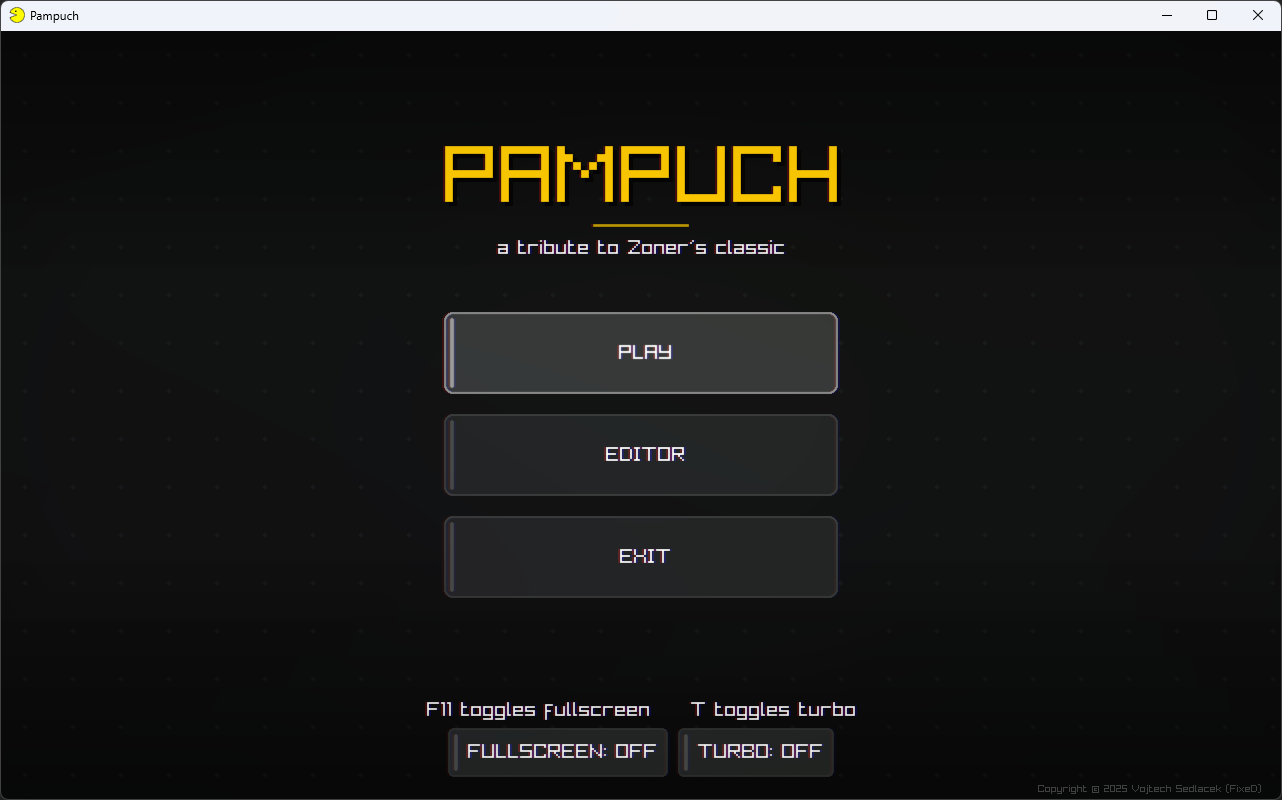
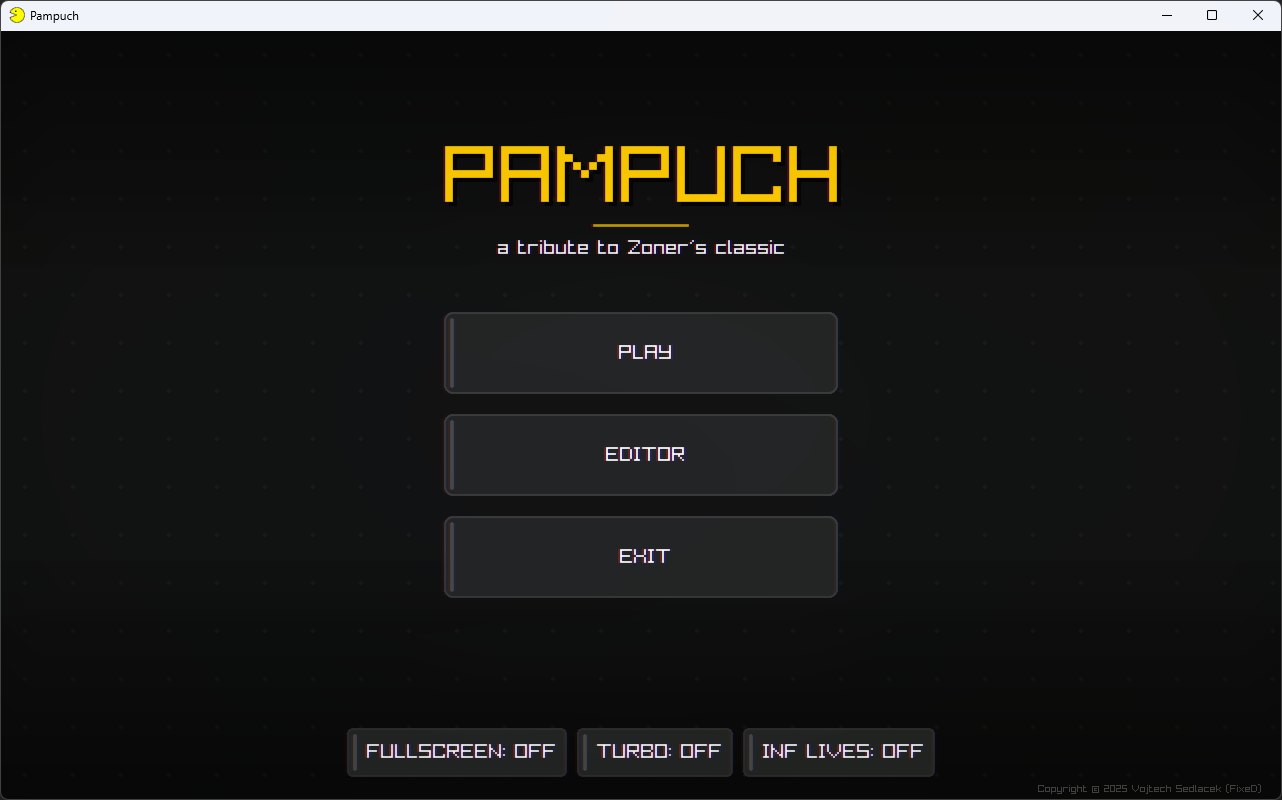
feat(gameplay): add infinite lives toggle to main menu

Changed region(s): [[0.2496, 0.875, 0.7488, 0.9688], [0.3432, 0.375, 0.6552, 0.5]]

diff --git a/src/game/states/PlayScreen.cpp b/src/game/states/PlayScreen.cpp
@@ -24,9 +24,11 @@ void Update(Game& game, float dt) {
             const float dy = ghost.pixelPos.y - game.player.pixelPos.y;
 
             if ((dx * dx + dy * dy) < colRad * colRad) {
-                --game.player.lives;
+                if (!game.infiniteLives) {
+                    --game.player.lives;
+                }
 
-                if (game.player.lives > 0) {
+                if (game.infiniteLives || game.player.lives > 0) {
                     game.ResetLevelState();
                 } else {
                     game.currentState = GameState::GameOver;
@@ -140,12 +142,25 @@ void Draw(Game& game) {
         game.currentState = GameState::MenuMain;
     }
 
-    // TURBO badge (right-aligned, left of quit)
+    // Status badges (right-aligned, left of quit). Read-only — toggled from main menu.
+    const float pillH = barH * 0.42f;
+    float badgeRightX = quitR.x;
+    if (game.infiniteLives) {
+        const float pillTextW = static_cast<float>(MeasureText("INF LIVES", fontSize));
+        const float pillW = pillTextW + pad;
+        const Rectangle pill = { badgeRightX - pad - pillW, (barH - pillH) / 2.0f, pillW, pillH };
+        DrawRectangleRounded(pill, 1.0f, 8, Fade(GREEN, 0.75f));
+        DrawRectangleRoundedLinesEx(pill, 1.0f, 8, 1.5f, Fade(WHITE, 0.55f));
+        DrawText("INF LIVES",
+            static_cast<int>(pill.x + (pill.width - pillTextW) / 2.0f),
+            static_cast<int>(pill.y + (pill.height - fontSize) / 2.0f),
+            fontSize, WHITE);
+        badgeRightX = pill.x;
+    }
     if (game.turboMode) {
-        const float pillH = barH * 0.42f;
         const float pillTextW = static_cast<float>(MeasureText("TURBO", fontSize));
         const float pillW = pillTextW + pad;
-        const Rectangle pill = { quitR.x - pad - pillW, (barH - pillH) / 2.0f, pillW, pillH };
+        const Rectangle pill = { badgeRightX - pad - pillW, (barH - pillH) / 2.0f, pillW, pillH };
         DrawRectangleRounded(pill, 1.0f, 8, Fade(RED, 0.75f));
         DrawRectangleRoundedLinesEx(pill, 1.0f, 8, 1.5f, Fade(WHITE, 0.55f));
         DrawText("TURBO",

diff --git a/src/game/states/MenuScreens.cpp b/src/game/states/MenuScreens.cpp
@@ -85,13 +85,15 @@ void DrawMenuMain(Game& game) {
     const bool isFullscreen = IsWindowFullscreen();
     std::string fullscreenText = isFullscreen ? "FULLSCREEN: ON" : "FULLSCREEN: OFF";
     std::string turboText = game.turboMode ? "TURBO: ON" : "TURBO: OFF";
+    std::string infText = game.infiniteLives ? "INF LIVES: ON" : "INF LIVES: OFF";
 
     const float paddingX = 14.0f * game.layout.Scale();
     const float toggleBtnH = Config::UI::BUTTON_HEIGHT * game.layout.Scale();
     const float fullscreenBtnW = static_cast<float>(MeasureText(fullscreenText.c_str(), fontSize)) + paddingX * 2.0f;
     const float turboBtnW = static_cast<float>(MeasureText(turboText.c_str(), fontSize)) + paddingX * 2.0f;
+    const float infBtnW = static_cast<float>(MeasureText(infText.c_str(), fontSize)) + paddingX * 2.0f;
     const float toggleGap = 14.0f;
-    const float totalToggleW = fullscreenBtnW + turboBtnW + toggleGap;
+    const float totalToggleW = fullscreenBtnW + turboBtnW + infBtnW + toggleGap * 2.0f;
     const float toggleStartX = (screenW - totalToggleW) / 2.0f;
     const float bottomY = screenH - toggleBtnH - 24.0f;
 
@@ -103,15 +105,9 @@ void DrawMenuMain(Game& game) {
         game.turboMode = !game.turboMode;
     }
 
-    // Hint line above toggles. Render at a clean multiple of raylib's 10px base font
-    // and stick to plain ASCII so glyph kerning stays even.
-    constexpr int hintSize = 20;
-    const char* hintText = "F11 toggles fullscreen     T toggles turbo";
-    const int hintW = MeasureText(hintText, hintSize);
-    DrawText(hintText,
-        screenW / 2 - hintW / 2,
-        static_cast<int>(bottomY) - hintSize - 10,
-        hintSize, RAYWHITE);
+    if (UI::Button({ toggleStartX + fullscreenBtnW + turboBtnW + toggleGap * 2.0f, bottomY, infBtnW, toggleBtnH }, infText, game.layout)) {
+        game.infiniteLives = !game.infiniteLives;
+    }
 }
 
 void DrawMenuEditorMain(Game& game) {

diff --git a/src/game/Game.h b/src/game/Game.h
@@ -39,6 +39,7 @@ public:
 
     bool waitingForStart = true;
     bool turboMode = false;
+    bool infiniteLives = false;
 
     std::string inputNameBuffer;
     std::string inputAuthorBuffer;
